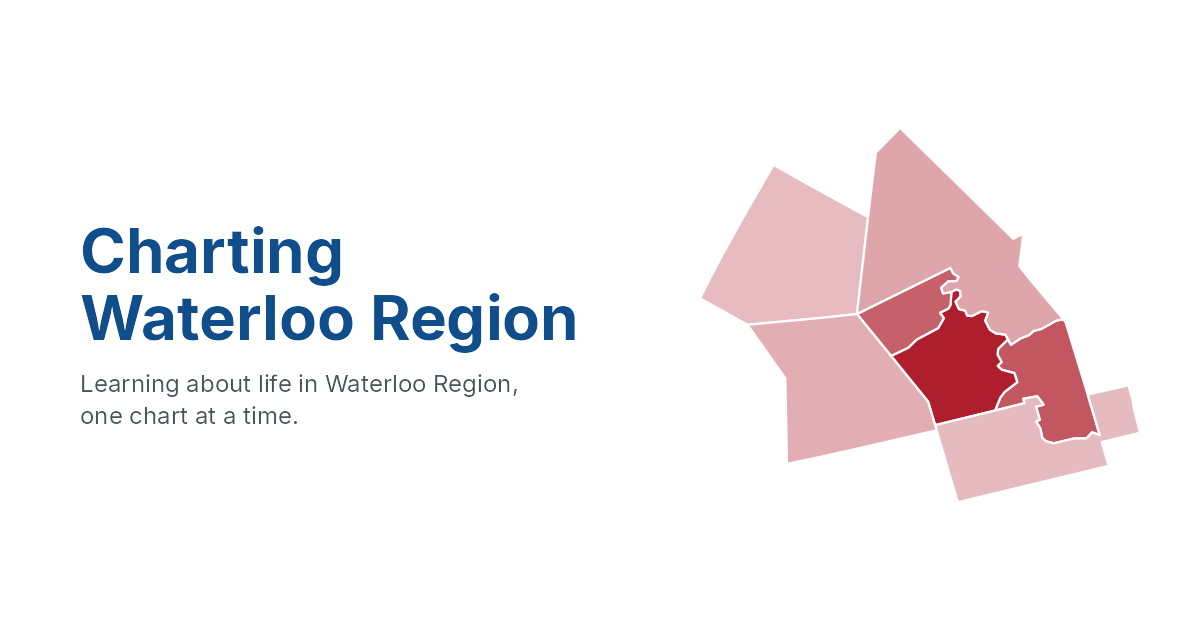
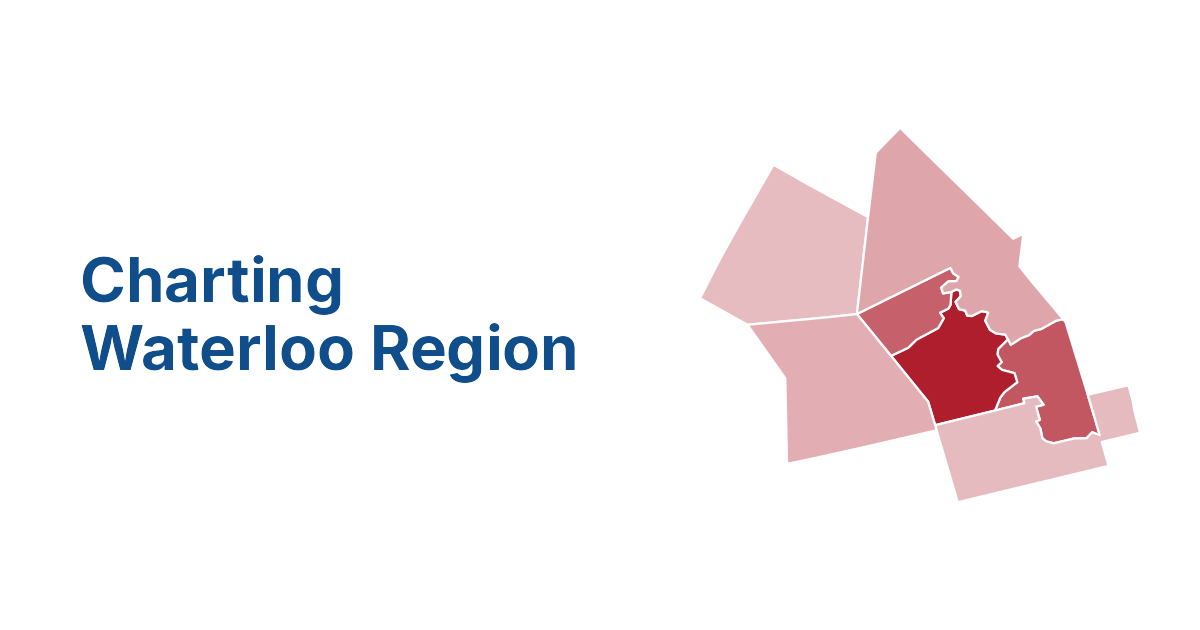
Built site for gh-pages

Changed region(s): [[0.0617, 0.3619, 0.4933, 0.6937]]

diff --git a/about.html b/about.html
@@ -94,13 +94,13 @@ ul.task-list li input[type="checkbox"] {
 
 
 <meta property="og:title" content="About – Charting Waterloo Region">
-<meta property="og:description" content="Charts and analysis about life in Waterloo Region, built from open data.">
+<meta property="og:description" content="Learning about life in Waterloo Region, one chart at a time.">
 <meta property="og:image" content="https://chartingwaterlooregion.ca/images/social-card.png">
 <meta property="og:site_name" content="Charting Waterloo Region">
 <meta property="og:image:height" content="630">
 <meta property="og:image:width" content="1200">
 <meta name="twitter:title" content="About – Charting Waterloo Region">
-<meta name="twitter:description" content="Charts and analysis about life in Waterloo Region, built from open data.">
+<meta name="twitter:description" content="Learning about life in Waterloo Region, one chart at a time.">
 <meta name="twitter:image" content="https://chartingwaterlooregion.ca/images/social-card.png">
 <meta name="twitter:image-height" content="630">
 <meta name="twitter:image-width" content="1200">
@@ -178,14 +178,14 @@ ul.task-list li input[type="checkbox"] {
 <div class="quarto-title-meta">
   </div>
 </header> <main class="content" id="quarto-document-content">
-<!-- The site card, as live text rather than the picture of it.
-     images/social-card.png says the same thing, but its type is drawn at a fixed
-     1200px wide: on a phone the strapline would land at about seven pixels tall.
-     Set as HTML it reflows. This is the site's visible tagline, and it has to stay
-     in step with index.qmd's subtitle and the card_text() calls in
-     _dev/logo/make_logo.R. _quarto.yml's `description` is deliberately NOT the same
-     sentence: that one is the meta description search engines, link previews and the
-     RSS feed use, so it stays descriptive and names the subject and the open data.
+<!-- The site card, rebuilt as live text rather than shown as the picture.
+     images/social-card.png carries the same name and mark, but its type is drawn at
+     a fixed 1200px wide: dropped into a phone column the wording would land a few
+     pixels tall. Set as HTML it reflows.
+     The tagline below is not on the card at all (removed 2026-09-14, see WORKFLOW.md
+     section 8), so this is the only place it appears on this page. The same sentence
+     has to appear in index.qmd (both subtitle and description-meta), description in
+     _quarto.yml, and README.md.
      custom.scss hides Quarto's own title block here and styles the <h1> below, so
      that the card sits above the heading instead of underneath it. -->
 <div class="cwr-hero">

diff --git a/404.html b/404.html
@@ -95,13 +95,13 @@ ul.task-list li input[type="checkbox"] {
 
 
 <meta property="og:title" content="Page not found – Charting Waterloo Region">
-<meta property="og:description" content="Charts and analysis about life in Waterloo Region, built from open data.">
+<meta property="og:description" content="Learning about life in Waterloo Region, one chart at a time.">
 <meta property="og:image" content="https://chartingwaterlooregion.ca/images/social-card.png">
 <meta property="og:site_name" content="Charting Waterloo Region">
 <meta property="og:image:height" content="630">
 <meta property="og:image:width" content="1200">
 <meta name="twitter:title" content="Page not found – Charting Waterloo Region">
-<meta name="twitter:description" content="Charts and analysis about life in Waterloo Region, built from open data.">
+<meta name="twitter:description" content="Learning about life in Waterloo Region, one chart at a time.">
 <meta name="twitter:image" content="https://chartingwaterlooregion.ca/images/social-card.png">
 <meta name="twitter:image-height" content="630">
 <meta name="twitter:image-width" content="1200">

diff --git a/index.html b/index.html
@@ -6,7 +6,7 @@
 
 <meta name="viewport" content="width=device-width, initial-scale=1.0, user-scalable=yes">
 
-<meta name="description" content="Charts and analysis about life in Waterloo Region, built from open data.">
+<meta name="description" content="Learning about life in Waterloo Region, one chart at a time.">
 
 <title>Charting Waterloo Region</title>
 <style>
